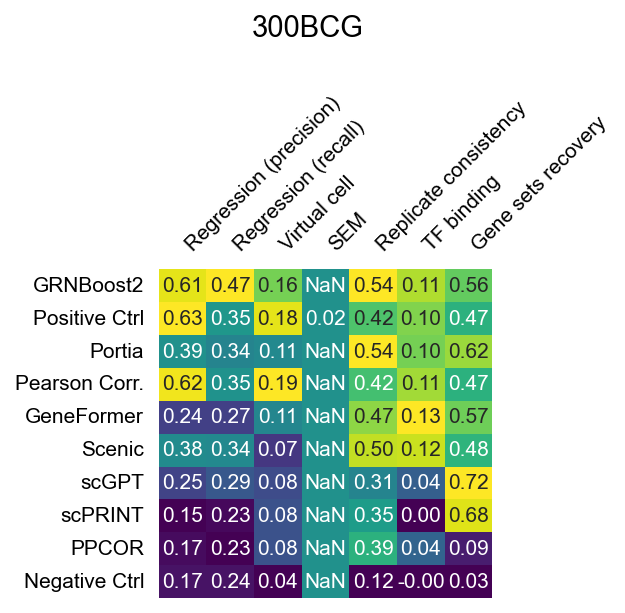
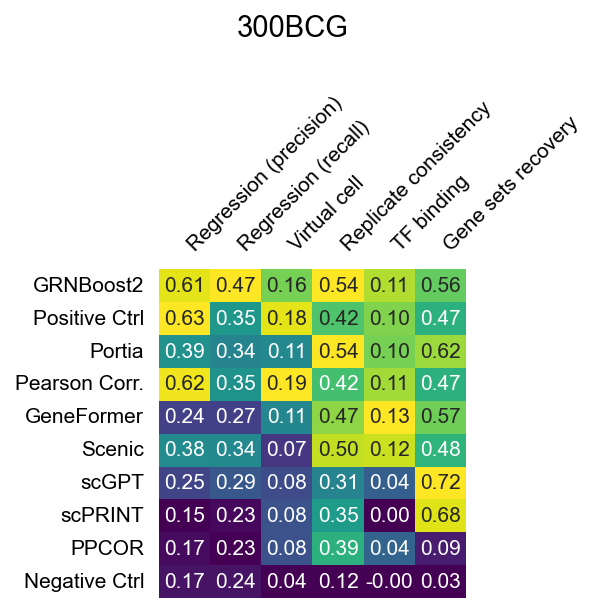
docs: add metric applicability table to leaderboard; update raw score figures
- Add metric_applicability.png before the overview plot in leaderboard.rst
  with note that only applicable metrics per dataset are used for ranking
- Regenerate raw score heatmaps with dataset-applicable metrics only
  (e.g. SEM column removed from 300BCG)
- Rebuild HTML

Changed region(s): [[0.0302, 0.155, 0.9648, 0.9918], [0.392, 0.0, 0.603, 0.062]]

diff --git a/docs/build/html/searchindex.js b/docs/build/html/searchindex.js
@@ -1,1 +1,1 @@
-Search.setIndex({"alltitles": {"Add a GRN evaluation metric": [[2, "add-a-grn-evaluation-metric"]], "Add a GRN inference and evalaution dataset": [[2, "add-a-grn-inference-and-evalaution-dataset"]], "Add a GRN inference method": [[2, "add-a-grn-inference-method"]], "AnnData object": [[6, "id1"], [6, "id4"], [6, "id5"], [6, "id6"]], "Contents": [[3, "contents"]], "Control Method": [[6, "control-method"]], "Datasets": [[0, null]], "Downloading the extended datasets": [[0, "downloading-the-extended-datasets"]], "Downloading the main datasets": [[0, "downloading-the-main-datasets"]], "Downloading the raw/unprocessed data": [[0, "downloading-the-raw-unprocessed-data"]], "Downloading the results": [[0, "downloading-the-results"]], "Extending": [[2, null]], "GRN": [[6, "grn"]], "GRN Inference": [[4, null]], "GRN evaluation": [[1, null]], "GRN inference using integrated methods": [[4, "grn-inference-using-integrated-methods"]], "GRN inference without method integration": [[4, "grn-inference-without-method-integration"]], "Getting started": [[3, "getting-started"]], "Label": [[6, "label"]], "Leaderboard": [[5, null]], "Method": [[6, "method"]], "Multiomics ATAC": [[6, "multiomics-atac"]], "Multiomics RNA": [[6, "multiomics-rna"]], "Objects": [[6, null]], "Perturbation": [[6, "perturbation"]], "Prior data": [[6, "prior-data"]], "Running GRN evaluation using standard pipeline": [[1, "running-grn-evaluation-using-standard-pipeline"]], "Running GRN evaluation without docker": [[1, "running-grn-evaluation-without-docker"]], "Score": [[6, "score"]], "Tabular data": [[6, "id2"], [6, "id3"]], "geneRNIB: A living benchmark for gene regulatory network inference": [[3, null]]}, "docnames": ["dataset", "evaluation", "extending", "index", "inference", "leaderboard", "repo/objects"], "envversion": {"sphinx": 64, "sphinx.domains.c": 3, "sphinx.domains.changeset": 1, "sphinx.domains.citation": 1, "sphinx.domains.cpp": 9, "sphinx.domains.index": 1, "sphinx.domains.javascript": 3, "sphinx.domains.math": 2, "sphinx.domains.python": 4, "sphinx.domains.rst": 2, "sphinx.domains.std": 2, "sphinx.ext.intersphinx": 1}, "filenames": ["dataset.rst", "evaluation.rst", "extending.rst", "index.rst", "inference.rst", "leaderboard.rst", "repo/objects.rst"], "indexentries": {}, "objects": {}, "objnames": {}, "objtypes": {}, "terms": {"0": [2, 4], "000": [1, 4], "1": [2, 6], "2": 2, "20": 1, "4": 2, "50": [1, 4], "50k": 2, "6": 6, "A": [2, 6], "For": [1, 2, 4], "If": [1, 4], "In": [1, 2], "It": [1, 2, 3], "Not": 1, "The": [0, 1, 2, 3, 4, 5, 6], "There": 2, "These": 0, "To": [0, 1, 3, 4], "__merge__": 2, "about": 2, "access": 0, "accordingli": 3, "accuraci": 6, "ad": [2, 3, 4], "add": [1, 3], "addit": [1, 2], "addition": [0, 2], "aertslab": 6, "after": 4, "algorithm": 4, "all": [0, 1, 2], "all_metr": 1, "also": [2, 5], "an": [1, 4, 6], "analysi": 1, "anndata": [1, 2, 4], "annot": 6, "api": 2, "applic": [1, 5], "approach": [4, 6], "ar": [0, 1, 2, 3, 5], "argument": 6, "art": 3, "assess": 3, "assign": [1, 4], "astyp": [2, 4], "attribut": 6, "avail": 0, "aw": [0, 2], "awscli": 0, "base": [2, 6], "base_python": 2, "base_requir": 2, "bash": 1, "below": [0, 1, 5], "benchmark": 6, "better": 2, "beyond": 0, "bio": 2, "biorxiv": 3, "bioscienc": 0, "both": [2, 3], "build_imag": 1, "bulk": 2, "c": 4, "calcul": 1, "call": 2, "can": [1, 2, 4], "cell": [0, 2, 6], "cell_count": 6, "cell_typ": 6, "celloracl": 2, "certtain": 1, "chang": 2, "charact": 4, "check": 2, "choic": 2, "chosen": 6, "cistarget": 6, "cloud": 3, "code": [1, 2], "collectri": [1, 4, 6], "column": [1, 4, 6], "combin": 0, "command": [0, 1, 2, 4], "common": 2, "comp_method": 2, "compar": 5, "comparison": [0, 3], "comparit": [], "competit": 3, "complet": 6, "complic": 2, "compound": 6, "compress": 4, "comput": [0, 3], "config": [1, 2, 4], "configur": 5, "connect": 6, "consensu": [0, 1], "consid": [1, 4], "contact": 0, "contain": 0, "context": 1, "control": 0, "convent": 1, "core": 0, "correl": 4, "could": 2, "count": [], "creat": 1, "criteria": [1, 5], "csv": [2, 4, 6], "curat": 3, "current": [1, 2, 4], "data": [2, 3], "datafram": [2, 4], "dataset": [1, 3, 4, 5, 6], "dataset_id": [2, 4], "dataset_nam": [1, 2, 4], "datasets_raw": 0, "de": 2, "default": [0, 6], "definit": 2, "depend": 2, "descript": [1, 2, 6], "design": 3, "detail": 1, "develop": 3, "did": [], "differ": 2, "differenti": 2, "direct": 2, "directori": [0, 1], "do": 2, "docker": [2, 3], "document": [2, 3], "documentation_url": 2, "done": 2, "donor": 6, "donor_id": 6, "dont": 2, "doubl": 6, "download": [2, 3, 4], "drawn": 6, "dtype": 2, "due": 0, "dynam": 3, "e": [1, 2, 4], "each": [1, 2, 4, 5, 6], "edg": [1, 2, 4], "effici": 0, "empir": 5, "end": 2, "engin": 2, "ensur": [2, 4], "essenti": 2, "etc": 1, "evalaut": 3, "evalu": [0, 3, 4, 6], "evaluation_data": 2, "evalut": 1, "exampl": [1, 2, 4, 6], "execut": 2, "expect": [1, 2, 4], "experi": 6, "explain": [1, 2], "explan": 6, "express": [2, 6], "extend": 3, "extended_data": 0, "extra": 2, "factor": 4, "fals": 1, "featur": [2, 3], "few": [0, 2], "file": [0, 1, 2, 6], "filter": 2, "final": 1, "find": [0, 6], "first": 1, "float": 6, "folder": [0, 2], "follow": [1, 2, 4], "form": 1, "format": [1, 2, 4, 6], "format_save_scor": 2, "found": 2, "from": [2, 4, 6], "full": 0, "further": 0, "futur": 3, "g": [1, 2, 4], "gene": [1, 2, 4, 6], "gene1": 2, "gene2": 2, "gener": 1, "genernbi": 4, "genernib": [0, 1, 2, 4], "get": 2, "ghcr": 2, "github": 3, "given": [1, 4, 5], "grn": [0, 3, 5], "grn_benchmark": [0, 1, 2, 4], "grn_method": 2, "grn_model": 1, "grnboost2": [2, 4], "gzip": 4, "h5ad": [1, 2, 4, 6], "ha": 2, "have": [0, 1, 2, 4], "helper": 2, "here": [1, 2], "how": 2, "howev": 2, "http": 6, "i": [0, 1, 2, 3, 4, 5, 6], "id": [2, 6], "identifi": 2, "imag": 2, "import": [1, 2, 4], "includ": [0, 1, 2], "inclus": 1, "incorpor": 0, "indic": 6, "individu": 5, "infer": [0, 1, 5, 6], "inference_data": [2, 4], "info": 2, "inform": 2, "infrastructur": 3, "instal": [2, 3, 4], "instruct": 2, "integ": 6, "integr": [0, 2, 3, 5], "io": 2, "known": [0, 6], "label": 2, "labels_tw": 2, "larg": 0, "layer": [2, 6], "leaderboard": [0, 3], "level": 6, "librari": [2, 4], "likelihood": [1, 4], "limit": [1, 4], "linc": 6, "link": 2, "list": [0, 2, 4, 6], "load": 2, "loadtxt": 2, "locat": 2, "logarithm": 6, "lognorm": [2, 6], "main": [2, 3], "make": 1, "map": [1, 6], "mark": 1, "matrix": 4, "mean": 6, "mention": 0, "merg": 2, "method": [0, 3, 5], "method_id": [2, 4], "method_nam": 2, "metric": [0, 1, 3, 5, 6], "metric_key_1": 2, "metric_key_2": 2, "metric_value_1": 2, "metric_value_2": 2, "midcpu": 2, "midmem": 2, "midtim": 2, "minim": 1, "modal": 3, "model": 1, "more": [2, 4], "multi": 3, "multiomics_atac": 6, "multiomics_rna": 6, "n_count": 6, "name": [1, 2, 6], "namespac": 2, "ncol": 4, "necessari": 2, "need": [0, 1, 2], "net": [2, 4], "network": [1, 2, 4], "new": [1, 2, 3], "new_grn_model_fil": 1, "new_model": 1, "next": 4, "nextflow": 2, "none": [2, 4], "normal": [2, 6], "note": 1, "novel": 3, "np": 2, "nrow": 4, "num_work": 1, "number": 6, "number_of_work": 1, "numpi": 2, "ob": 6, "object": 1, "obtain": 6, "offer": 3, "omic": 3, "omit": 2, "onc": [2, 4], "one": 4, "ones": 1, "onli": [1, 2, 4, 5], "op": [1, 4], "op_rna": 4, "openproblem": [0, 2, 3], "option": [2, 6], "org": 6, "organ": 2, "other": 0, "our": [3, 4], "output": [1, 2, 4, 6], "output_score_fil": 1, "over": 3, "overal": 5, "overlook": 2, "overview": 6, "packag": 2, "page": [3, 4], "pair": [1, 2, 4], "panda": [2, 4], "paper": [0, 1, 3], "par": 2, "param": 2, "paramet": 2, "parent": 6, "pars": 0, "part": 1, "pass": [1, 2, 5], "path": [2, 6], "pd": 2, "peak": 6, "pearson": [4, 6], "pearson_corr": 4, "per": 5, "perform": [1, 3, 4, 5, 6], "perturb": 0, "perturbation_data": 6, "pipelin": [2, 3], "pl": 0, "place": 2, "plate": 6, "plate_nam": 6, "platform": [2, 3], "posit": 0, "predict": [1, 2, 4, 6], "prerequisit": 2, "pretti": 2, "previou": [0, 1], "previous": [0, 3], "primari": 6, "prior": [0, 1, 2, 4], "prior_data": 6, "proce": 4, "process": 0, "protocol": 3, "provid": [0, 2, 3, 6], "pseudo": 2, "pseudobulk": [0, 6], "pull": 2, "py": [1, 2], "python": 2, "python_script": 2, "qualiti": 5, "r": [2, 4], "r_script": 2, "randomli": 6, "rank": [1, 4, 5], "raw": 3, "re": 3, "read": 2, "read_h5ad": 2, "read_predict": 2, "recent": 0, "refer": [1, 2], "reflect": 3, "reg_typ": 6, "regress": 6, "regul": 6, "regulatori": [1, 4], "relationship": 6, "replac": 2, "replogl": [0, 1, 4], "repositori": 2, "repres": 0, "represent": 6, "request": [0, 2], "requir": 2, "residu": 6, "resourc": [0, 1, 2, 4, 6], "resources_test": [2, 4], "result": [2, 3], "ridg": 6, "rna": [2, 4], "rna_op": 2, "robust": 1, "row": 6, "run": [0, 2, 3, 4], "run_consensu": 1, "run_grn_evalu": 1, "run_loc": 1, "runner": 2, "s3": [0, 2], "same": 2, "sampl": 6, "save": [2, 4], "save_dir": 1, "save_to_fil": 4, "scenic": 2, "schema": 2, "scheme": 2, "score": [1, 2, 3, 4], "score_fil": 2, "script": [1, 2], "section": [2, 4], "see": [1, 2, 3, 4], "set": 1, "setup": 2, "sh": 1, "shift": 6, "should": [1, 2, 4], "show": 5, "shown": 1, "sign": [0, 2], "similar": 2, "sinc": 4, "singl": [0, 2, 3, 6], "size": 0, "slot": 6, "sm_name": 6, "so": 2, "some": [2, 6], "sourc": [1, 2, 4, 6], "specif": 1, "src": [1, 2, 4, 6], "stabil": 1, "standard": [0, 3, 6], "start": 2, "state": 3, "step": 1, "store": [2, 3, 4], "str": [2, 4], "string": [2, 4, 6], "structur": 2, "submetr": 2, "submit": 2, "subsampl": 6, "success": 2, "summar": [1, 5], "summari": 2, "supplementari": [0, 3], "support": [1, 3], "surrogate_nam": 1, "sy": 2, "sync": [0, 2], "system": 1, "tabl": [1, 5], "tabular": 1, "tag": 0, "target": [1, 2, 4, 6], "task": 6, "test": 2, "tf": [0, 1, 2, 4, 6], "tf1": 2, "tf2": 2, "tf_all": [2, 4], "tf_list": 6, "them": 3, "thi": [0, 1, 2, 3, 4, 6], "those": 1, "three": [2, 4], "threshold": 1, "time": [1, 3], "tip": 2, "togeth": 2, "top": [1, 2, 4], "toward": [], "track": 3, "transcript": 4, "true": 1, "type": [2, 6], "u": 0, "un": [2, 4, 6], "uniqu": 2, "unprocess": 3, "updat": [2, 3], "us": [0, 2, 3, 5, 6], "util": [1, 2], "valu": [2, 6], "variabl": 1, "variat": 0, "veri": 0, "version": 0, "viash": [2, 4], "view": 3, "vsh": [2, 4], "we": [0, 2, 4], "weight": [1, 2, 4, 6], "well": 6, "were": [0, 1], "when": 3, "where": 2, "which": [0, 1, 2, 5, 6], "while": 2, "within": 0, "without": 3, "work": [2, 4], "write": [2, 4], "write_h5ad": 4, "x": [2, 4], "xaira": 0, "yaml": [2, 4], "you": [0, 1, 2, 4], "your": [1, 2, 4], "your_method": 2, "your_method_nam": 4, "zellkonvert": 4}, "titles": ["Datasets", "GRN evaluation", "Extending", "geneRNIB: A living benchmark for gene regulatory network inference", "GRN Inference", "Leaderboard", "Objects"], "titleterms": {"A": 3, "add": 2, "anndata": 6, "atac": 6, "benchmark": 3, "content": 3, "control": 6, "data": [0, 6], "dataset": [0, 2], "docker": 1, "download": 0, "evalaut": 2, "evalu": [1, 2], "extend": [0, 2], "gene": 3, "genernib": 3, "get": 3, "grn": [1, 2, 4, 6], "infer": [2, 3, 4], "integr": 4, "label": 6, "leaderboard": 5, "live": 3, "main": 0, "method": [2, 4, 6], "metric": 2, "multiom": 6, "network": 3, "object": 6, "perturb": 6, "pipelin": 1, "prior": 6, "raw": 0, "regulatori": 3, "result": 0, "rna": 6, "run": 1, "score": 6, "standard": 1, "start": 3, "tabular": 6, "unprocess": 0, "us": [1, 4], "without": [1, 4]}})
+Search.setIndex({"alltitles": {"Add a GRN evaluation metric": [[2, "add-a-grn-evaluation-metric"]], "Add a GRN inference and evalaution dataset": [[2, "add-a-grn-inference-and-evalaution-dataset"]], "Add a GRN inference method": [[2, "add-a-grn-inference-method"]], "AnnData object": [[6, "id1"], [6, "id4"], [6, "id5"], [6, "id6"]], "Contents": [[3, "contents"]], "Control Method": [[6, "control-method"]], "Datasets": [[0, null]], "Downloading the extended datasets": [[0, "downloading-the-extended-datasets"]], "Downloading the main datasets": [[0, "downloading-the-main-datasets"]], "Downloading the raw/unprocessed data": [[0, "downloading-the-raw-unprocessed-data"]], "Downloading the results": [[0, "downloading-the-results"]], "Extending": [[2, null]], "GRN": [[6, "grn"]], "GRN Inference": [[4, null]], "GRN evaluation": [[1, null]], "GRN inference using integrated methods": [[4, "grn-inference-using-integrated-methods"]], "GRN inference without method integration": [[4, "grn-inference-without-method-integration"]], "Getting started": [[3, "getting-started"]], "Label": [[6, "label"]], "Leaderboard": [[5, null]], "Method": [[6, "method"]], "Multiomics ATAC": [[6, "multiomics-atac"]], "Multiomics RNA": [[6, "multiomics-rna"]], "Objects": [[6, null]], "Perturbation": [[6, "perturbation"]], "Prior data": [[6, "prior-data"]], "Running GRN evaluation using standard pipeline": [[1, "running-grn-evaluation-using-standard-pipeline"]], "Running GRN evaluation without docker": [[1, "running-grn-evaluation-without-docker"]], "Score": [[6, "score"]], "Tabular data": [[6, "id2"], [6, "id3"]], "geneRNIB: A living benchmark for gene regulatory network inference": [[3, null]]}, "docnames": ["dataset", "evaluation", "extending", "index", "inference", "leaderboard", "repo/objects"], "envversion": {"sphinx": 64, "sphinx.domains.c": 3, "sphinx.domains.changeset": 1, "sphinx.domains.citation": 1, "sphinx.domains.cpp": 9, "sphinx.domains.index": 1, "sphinx.domains.javascript": 3, "sphinx.domains.math": 2, "sphinx.domains.python": 4, "sphinx.domains.rst": 2, "sphinx.domains.std": 2, "sphinx.ext.intersphinx": 1}, "filenames": ["dataset.rst", "evaluation.rst", "extending.rst", "index.rst", "inference.rst", "leaderboard.rst", "repo/objects.rst"], "indexentries": {}, "objects": {}, "objnames": {}, "objtypes": {}, "terms": {"0": [2, 4], "000": [1, 4], "1": [2, 6], "2": 2, "20": 1, "4": 2, "50": [1, 4], "50k": 2, "6": 6, "A": [2, 6], "For": [1, 2, 4], "If": [1, 4], "In": [1, 2], "It": [1, 2, 3], "Not": 1, "The": [0, 1, 2, 3, 4, 5, 6], "There": 2, "These": 0, "To": [0, 1, 3, 4], "__merge__": 2, "about": 2, "access": 0, "accordingli": 3, "accuraci": 6, "ad": [2, 3, 4], "add": [1, 3], "addit": [1, 2], "addition": [0, 2], "aertslab": 6, "after": 4, "algorithm": 4, "all": [0, 1, 2], "all_metr": 1, "also": [2, 5], "an": [1, 4, 6], "analysi": 1, "anndata": [1, 2, 4], "annot": 6, "api": 2, "applic": [1, 5], "approach": [4, 6], "ar": [0, 1, 2, 3, 5], "argument": 6, "art": 3, "assess": 3, "assign": [1, 4], "astyp": [2, 4], "attribut": 6, "avail": 0, "aw": [0, 2], "awscli": 0, "base": [2, 6], "base_python": 2, "base_requir": 2, "bash": 1, "below": [0, 1, 5], "benchmark": 6, "better": 2, "beyond": 0, "bio": 2, "biorxiv": 3, "bioscienc": 0, "both": [2, 3], "build_imag": 1, "bulk": 2, "c": 4, "calcul": 1, "call": 2, "can": [1, 2, 4], "cell": [0, 2, 6], "cell_count": 6, "cell_typ": 6, "celloracl": 2, "certtain": 1, "chang": 2, "charact": 4, "check": 2, "choic": 2, "chosen": 6, "cistarget": 6, "cloud": 3, "code": [1, 2], "collectri": [1, 4, 6], "column": [1, 4, 6], "combin": 0, "command": [0, 1, 2, 4], "common": 2, "comp_method": 2, "compar": 5, "comparison": [0, 3], "comparit": [], "competit": 3, "complet": 6, "complic": 2, "compound": 6, "compress": 4, "comput": [0, 3], "config": [1, 2, 4], "configur": [], "connect": 6, "consensu": [0, 1], "consid": [1, 4], "contact": 0, "contain": 0, "context": 1, "control": 0, "convent": 1, "core": 0, "correl": 4, "could": 2, "count": [], "creat": 1, "criteria": [1, 5], "csv": [2, 4, 6], "curat": 3, "current": [1, 2, 4], "data": [2, 3], "datafram": [2, 4], "dataset": [1, 3, 4, 5, 6], "dataset_id": [2, 4], "dataset_nam": [1, 2, 4], "datasets_raw": 0, "de": 2, "default": [0, 6], "definit": 2, "depend": 2, "descript": [1, 2, 6], "design": 3, "detail": 1, "develop": 3, "did": [], "differ": 2, "differenti": 2, "direct": 2, "directori": [0, 1], "do": 2, "docker": [2, 3], "document": [2, 3], "documentation_url": 2, "done": 2, "donor": 6, "donor_id": 6, "dont": 2, "doubl": 6, "download": [2, 3, 4], "drawn": 6, "dtype": 2, "due": 0, "dynam": 3, "e": [1, 2, 4], "each": [1, 2, 4, 5, 6], "edg": [1, 2, 4], "effici": 0, "empir": [], "end": 2, "engin": 2, "ensur": [2, 4], "essenti": 2, "etc": 1, "evalaut": 3, "evalu": [0, 3, 4, 6], "evaluation_data": 2, "evalut": 1, "exampl": [1, 2, 4, 6], "execut": 2, "expect": [1, 2, 4], "experi": 6, "explain": [1, 2], "explan": 6, "express": [2, 6], "extend": 3, "extended_data": 0, "extra": 2, "factor": 4, "fals": 1, "featur": [2, 3], "few": [0, 2], "file": [0, 1, 2, 6], "filter": 2, "final": 1, "find": [0, 6], "first": 1, "float": 6, "folder": [0, 2], "follow": [1, 2, 4], "form": 1, "format": [1, 2, 4, 6], "format_save_scor": 2, "found": 2, "from": [2, 4, 6], "full": 0, "further": 0, "futur": 3, "g": [1, 2, 4], "gene": [1, 2, 4, 6], "gene1": 2, "gene2": 2, "gener": 1, "genernbi": 4, "genernib": [0, 1, 2, 4], "get": 2, "ghcr": 2, "github": 3, "given": [1, 4, 5], "grn": [0, 3, 5], "grn_benchmark": [0, 1, 2, 4], "grn_method": 2, "grn_model": 1, "grnboost2": [2, 4], "gzip": 4, "h5ad": [1, 2, 4, 6], "ha": 2, "have": [0, 1, 2, 4], "helper": 2, "here": [1, 2], "how": 2, "howev": 2, "http": 6, "i": [0, 1, 2, 3, 4, 5, 6], "id": [2, 6], "identifi": 2, "imag": 2, "import": [1, 2, 4], "includ": [0, 1, 2], "inclus": 1, "incorpor": 0, "indic": 6, "individu": 5, "infer": [0, 1, 5, 6], "inference_data": [2, 4], "info": 2, "inform": 2, "infrastructur": 3, "instal": [2, 3, 4], "instruct": 2, "integ": 6, "integr": [0, 2, 3, 5], "io": 2, "known": [0, 6], "label": 2, "labels_tw": 2, "larg": 0, "layer": [2, 6], "leaderboard": [0, 3], "level": 6, "librari": [2, 4], "likelihood": [1, 4], "limit": [1, 4], "linc": 6, "link": 2, "list": [0, 2, 4, 6], "load": 2, "loadtxt": 2, "locat": 2, "logarithm": 6, "lognorm": [2, 6], "main": [2, 3], "make": 1, "map": [1, 6], "mark": 1, "matrix": 4, "mean": 6, "mention": 0, "merg": 2, "method": [0, 3, 5], "method_id": [2, 4], "method_nam": 2, "metric": [0, 1, 3, 5, 6], "metric_key_1": 2, "metric_key_2": 2, "metric_value_1": 2, "metric_value_2": 2, "midcpu": 2, "midmem": 2, "midtim": 2, "minim": 1, "modal": 3, "model": 1, "more": [2, 4], "multi": 3, "multiomics_atac": 6, "multiomics_rna": 6, "n_count": 6, "name": [1, 2, 6], "namespac": 2, "ncol": 4, "necessari": 2, "need": [0, 1, 2], "net": [2, 4], "network": [1, 2, 4], "new": [1, 2, 3], "new_grn_model_fil": 1, "new_model": 1, "next": 4, "nextflow": 2, "none": [2, 4], "normal": [2, 6], "note": 1, "novel": 3, "np": 2, "nrow": 4, "num_work": 1, "number": 6, "number_of_work": 1, "numpi": 2, "ob": 6, "object": 1, "obtain": 6, "offer": 3, "omic": 3, "omit": 2, "onc": [2, 4], "one": 4, "ones": 1, "onli": [1, 2, 4, 5], "op": [1, 4], "op_rna": 4, "openproblem": [0, 2, 3], "option": [2, 6], "org": 6, "organ": 2, "other": 0, "our": [3, 4], "output": [1, 2, 4, 6], "output_score_fil": 1, "over": 3, "overal": 5, "overlook": 2, "overview": 6, "packag": 2, "page": [3, 4], "pair": [1, 2, 4], "panda": [2, 4], "paper": [0, 1, 3], "par": 2, "param": 2, "paramet": 2, "parent": 6, "pars": 0, "part": 1, "pass": [1, 2, 5], "path": [2, 6], "pd": 2, "peak": 6, "pearson": [4, 6], "pearson_corr": 4, "per": 5, "perform": [1, 3, 4, 5, 6], "perturb": 0, "perturbation_data": 6, "pipelin": [2, 3], "pl": 0, "place": 2, "plate": 6, "plate_nam": 6, "platform": [2, 3], "posit": 0, "predict": [1, 2, 4, 6], "prerequisit": 2, "pretti": 2, "previou": [0, 1], "previous": [0, 3], "primari": 6, "prior": [0, 1, 2, 4], "prior_data": 6, "proce": 4, "process": 0, "protocol": 3, "provid": [0, 2, 3, 6], "pseudo": 2, "pseudobulk": [0, 6], "pull": 2, "py": [1, 2], "python": 2, "python_script": 2, "qualiti": 5, "r": [2, 4], "r_script": 2, "randomli": 6, "rank": [1, 4, 5], "raw": 3, "re": 3, "read": 2, "read_h5ad": 2, "read_predict": 2, "recent": 0, "refer": [1, 2], "reflect": 3, "reg_typ": 6, "regress": 6, "regul": 6, "regulatori": [1, 4], "relationship": 6, "replac": 2, "replogl": [0, 1, 4], "repositori": 2, "repres": 0, "represent": 6, "request": [0, 2], "requir": [2, 5], "residu": 6, "resourc": [0, 1, 2, 4, 6], "resources_test": [2, 4], "result": [2, 3], "ridg": 6, "rna": [2, 4], "rna_op": 2, "robust": 1, "row": 6, "run": [0, 2, 3, 4], "run_consensu": 1, "run_grn_evalu": 1, "run_loc": 1, "runner": 2, "s3": [0, 2], "same": 2, "sampl": 6, "save": [2, 4], "save_dir": 1, "save_to_fil": 4, "scenic": 2, "schema": 2, "scheme": 2, "score": [1, 2, 3, 4], "score_fil": 2, "script": [1, 2], "section": [2, 4], "see": [1, 2, 3, 4], "set": 1, "setup": 2, "sh": 1, "shift": 6, "should": [1, 2, 4], "show": 5, "shown": 1, "sign": [0, 2], "similar": 2, "sinc": 4, "singl": [0, 2, 3, 6], "size": 0, "slot": 6, "sm_name": 6, "so": 2, "some": [2, 6], "sourc": [1, 2, 4, 6], "specif": 1, "src": [1, 2, 4, 6], "stabil": 1, "standard": [0, 3, 6], "start": 2, "state": 3, "step": 1, "store": [2, 3, 4], "str": [2, 4], "string": [2, 4, 6], "structur": 2, "submetr": 2, "submit": 2, "subsampl": 6, "success": 2, "summar": [1, 5], "summari": 2, "supplementari": [0, 3], "support": [1, 3], "surrogate_nam": 1, "sy": 2, "sync": [0, 2], "system": 1, "tabl": [1, 5], "tabular": 1, "tag": 0, "target": [1, 2, 4, 6], "task": 6, "test": 2, "tf": [0, 1, 2, 4, 6], "tf1": 2, "tf2": 2, "tf_all": [2, 4], "tf_list": 6, "them": 3, "thi": [0, 1, 2, 3, 4, 6], "those": 1, "three": [2, 4], "threshold": 1, "time": [1, 3], "tip": 2, "togeth": 2, "top": [1, 2, 4], "toward": [], "track": 3, "transcript": 4, "true": 1, "type": [2, 6], "u": 0, "un": [2, 4, 6], "uniqu": 2, "unprocess": 3, "updat": [2, 3], "us": [0, 2, 3, 5, 6], "util": [1, 2], "valu": [2, 6], "variabl": 1, "variat": 0, "veri": 0, "version": 0, "viash": [2, 4], "view": 3, "vsh": [2, 4], "we": [0, 2, 4], "weight": [1, 2, 4, 6], "well": 6, "were": [0, 1], "when": 3, "where": 2, "which": [0, 1, 2, 5, 6], "while": 2, "within": 0, "without": 3, "work": [2, 4], "write": [2, 4], "write_h5ad": 4, "x": [2, 4], "xaira": 0, "yaml": [2, 4], "you": [0, 1, 2, 4], "your": [1, 2, 4], "your_method": 2, "your_method_nam": 4, "zellkonvert": 4}, "titles": ["Datasets", "GRN evaluation", "Extending", "geneRNIB: A living benchmark for gene regulatory network inference", "GRN Inference", "Leaderboard", "Objects"], "titleterms": {"A": 3, "add": 2, "anndata": 6, "atac": 6, "benchmark": 3, "content": 3, "control": 6, "data": [0, 6], "dataset": [0, 2], "docker": 1, "download": 0, "evalaut": 2, "evalu": [1, 2], "extend": [0, 2], "gene": 3, "genernib": 3, "get": 3, "grn": [1, 2, 4, 6], "infer": [2, 3, 4], "integr": 4, "label": 6, "leaderboard": 5, "live": 3, "main": 0, "method": [2, 4, 6], "metric": 2, "multiom": 6, "network": 3, "object": 6, "perturb": 6, "pipelin": 1, "prior": 6, "raw": 0, "regulatori": 3, "result": 0, "rna": 6, "run": 1, "score": 6, "standard": 1, "start": 3, "tabular": 6, "unprocess": 0, "us": [1, 4], "without": [1, 4]}})

diff --git a/docs/build/html/leaderboard.html b/docs/build/html/leaderboard.html
@@ -75,7 +75,9 @@
              
   <section id="leaderboard">
 <h1>Leaderboard<a class="headerlink" href="#leaderboard" title="Link to this heading"></a></h1>
-<p>The overall comparative performance of the integrated GRN inference methods is summarized in the leaderboard below. Only metrics that pass the applicability criteria for a given dataset are used to rank the methods. The table below shows which metrics are applicable per dataset (✓ = applicable by configuration; ★ = also passes empirical quality criteria).</p>
+<p>The overall comparative performance of the integrated GRN inference methods is summarized in the leaderboard below.
+Only metrics that pass the applicability criteria for a given dataset are used to rank the methods.
+The table below shows which metrics are applicable per dataset (✓ = applicable by metric requirements; ★ = also passes quality criteria).</p>
 <a class="reference internal image-reference" href="_images/metric_applicability.png"><img alt="_images/metric_applicability.png" class="align-center" src="_images/metric_applicability.png" style="width: 60%;" /></a>
 <hr class="docutils" />
 <a class="reference internal image-reference" href="_images/summary_figure.png"><img alt="_images/summary_figure.png" class="align-center" src="_images/summary_figure.png" style="width: 100%;" /></a>
